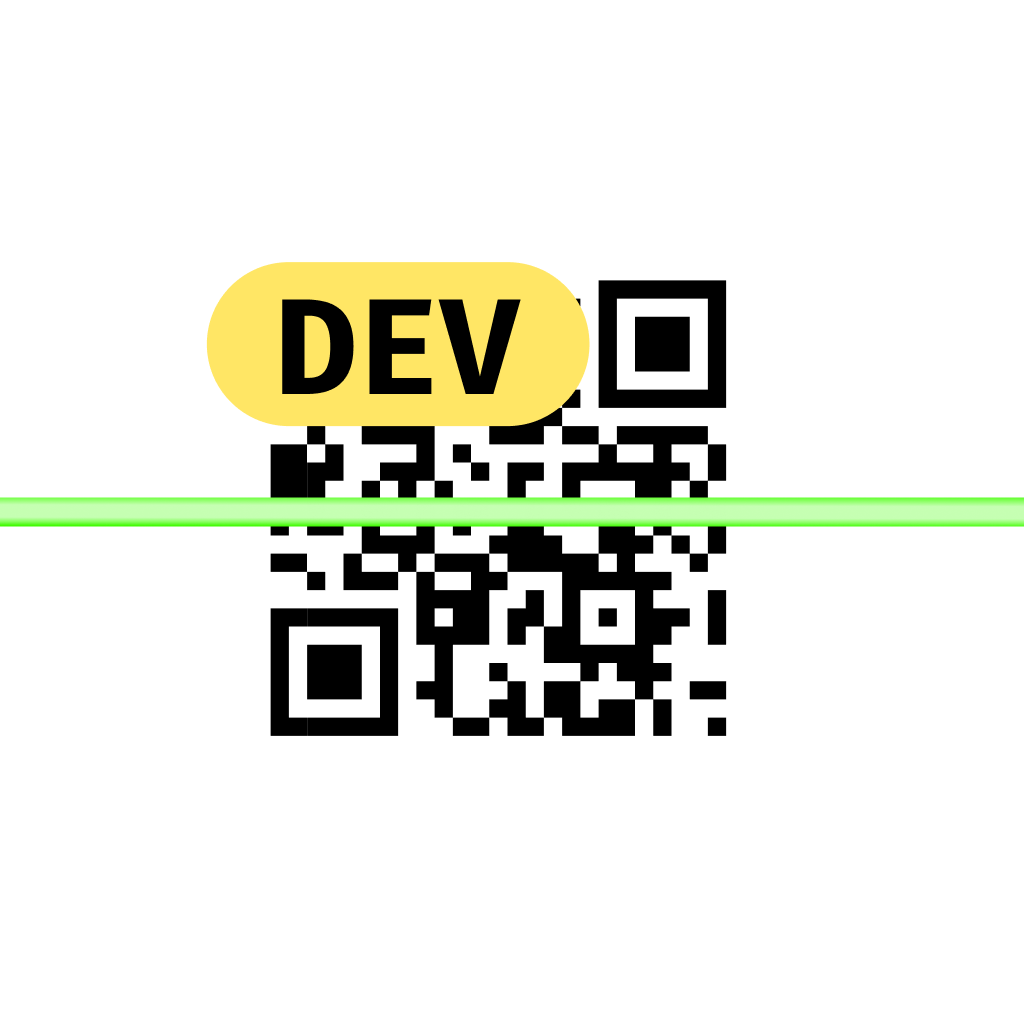
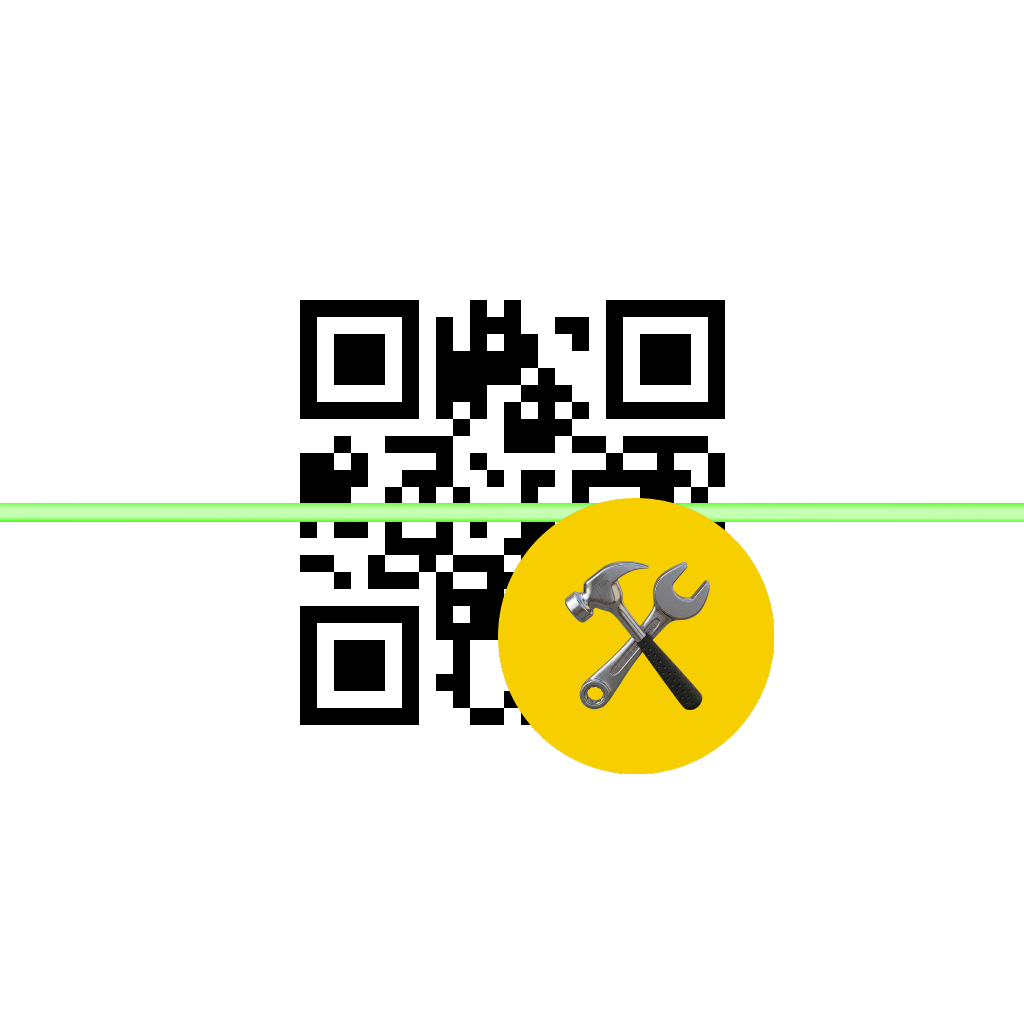
SAVEPOINT

Changed region(s): [[0.0, 0.25, 1.0, 0.7812]]

diff --git a/app.config.ts b/app.config.ts
@@ -15,8 +15,8 @@ const config: ExpoConfig = {
   userInterfaceStyle: "automatic",
   ios: {
     icon: isProduction
-      ? "./assets/images/qru.icon"
-      : "./assets/images/qru-dev.icon",
+      ? "./assets/icons/qru.icon"
+      : "./assets/icons/qru-dev.icon",
     supportsTablet: true,
     bundleIdentifier: `com.jonsamp.qru${isProduction ? "" : "-dev"}`,
     infoPlist: {
@@ -46,6 +46,9 @@ const config: ExpoConfig = {
         ? "./assets/images/adaptive-foreground.png"
         : "./assets/images/adaptive-foreground-dev.png",
       backgroundImage: "./assets/images/adaptive-background.png",
+      monochromeImage: isProduction
+        ? "./assets/images/adaptive-monochrome.png"
+        : "./assets/images/adaptive-monochrome-dev.png",
     },
   },
   web: {
